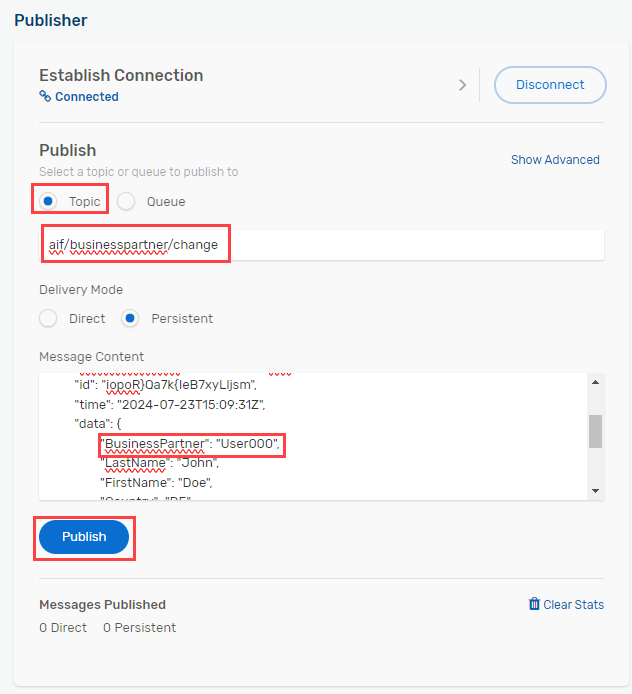
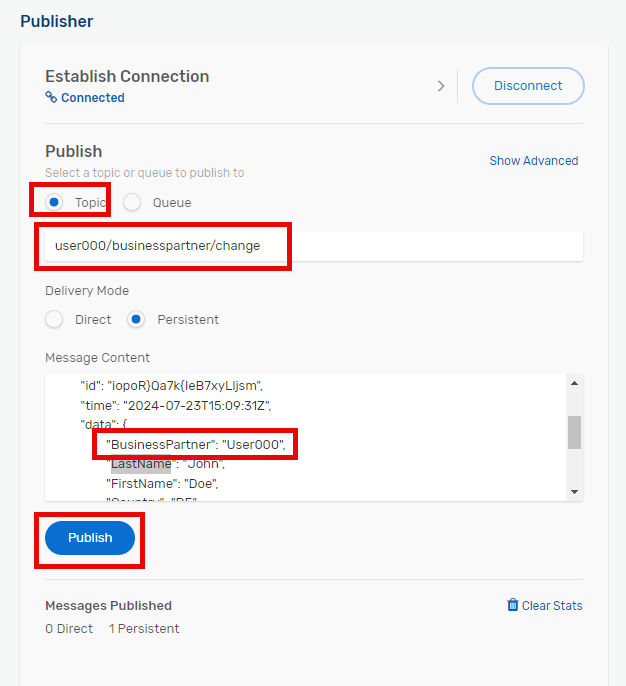
update exercise

diff --git a/exercises/ex1/README.md b/exercises/ex1/README.md
@@ -90,7 +90,7 @@ HINT: If you cannot see the tiles, uncheck the "Only show my services" box.
 
 ![Pic 9](./images/ex1-9.png)  
 
-11. Enter following topic: **aif/businesspartner/change**
+11. Enter following topic: **userXXX/businesspartner/change**  (replace **XXX** with your user number).
 
 12. Click on **"Create"**.
 
@@ -120,7 +120,7 @@ HINT: If you cannot see the tiles, uncheck the "Only show my services" box.
 >**Important**: If your browser asks to select a certificate for authentication, press "Cancel" otherwise the connection will fail! If you accidentially clicked on a certificate, please restart your browser to show the dialog again.
 ![Pic 17](./images/ex1-17.png)  
 
-20. Choose **"Queue"** and provide the name of the queue creted in step 5: User_**XXX** (replace **XXX** with your user number).
+20. Choose **"Topic"** and provide the name of the topic creted in step 5: user**XXX**/businesspartner/change**  (replace **XXX** with your user number).
 
 21. Change "Deliver Mode" to **"Persistent** and add following "Message Content":
 ```json

diff --git a/exercises/ex3/README.md b/exercises/ex3/README.md
@@ -53,7 +53,7 @@ In exercise 1, we did publish event to a queue. This time the event will be publ
 
 ![Pic](./images/ex3-6-2.png)
 
-2. Change to publish to a **"Topic"** and provide **aif/businesspartner/change** as value.
+2. Change to publish to a **"Topic"** and provide  user**XXX**/businesspartner/change**  (replace **XXX** with your user number) as value.
 3. For the message content change the **"BusinessPartner"** value UserXXX to your User ID, e.g. **"User000"**. Press "**Publish**""
 ```json
 {
@@ -77,7 +77,7 @@ In exercise 1, we did publish event to a queue. This time the event will be publ
 ```
 ![Pic](./images/ex3-7.png)
 
-4. You should see your entry in the application. Be aware that also the message from other participants will show in the table.
+4. You should see your entry in the application. Be aware that if you send a business partner with the same ID, an update of the existing entry will be triggered instead of creating a new entry.
 ![Pic](./images/ex3-8.png)
 
 **Congratulations, you completed all exercises!**
